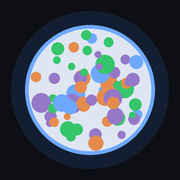
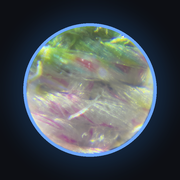
Иконка из фото Фёдора; круг меньше на 25%, картинки выбора крупнее

diff --git a/index.html b/index.html
@@ -9,7 +9,8 @@
 <meta name="apple-mobile-web-app-status-bar-style" content="black-translucent">
 <meta name="apple-mobile-web-app-title" content="Migue">
 <link rel="manifest" href="manifest.webmanifest">
-<link rel="apple-touch-icon" href="icons/icon-192.png">
+<link rel="apple-touch-icon" href="icons/apple-touch-icon.png">
+<link rel="icon" href="icons/icon-192.png" type="image/png">
 <style>
   :root{
     --bg:#0d0f14; --card:#171a22; --line:#272c38;
@@ -43,28 +44,27 @@
   main{
     flex:1; display:flex; flex-direction:column; min-height:0;
     width:min(100%, 620px); margin:0 auto;
-    padding:10px 18px 18px; gap:12px;
+    padding:10px 12px 16px; gap:12px;
   }
   .prompt{text-align:center; font-size:20px; color:var(--text); flex:0 0 auto; margin:0}
   .microwrap{
     flex:1 1 auto; min-height:0; display:flex; align-items:center; justify-content:center;
-    margin:0 -18px;              /* фото во всю ширину экрана, без полей */
     container-type:size;
   }
   .micro{
-    width:min(100%, 100cqh); height:auto; aspect-ratio:1/1; object-fit:cover;
+    width:min(80%, 100cqh); height:auto; aspect-ratio:1/1; object-fit:cover;
     border-radius:50%; border:2px solid var(--line);
     box-shadow:0 0 70px rgba(110,168,254,.2);
     animation:pop .35s ease-out;
   }
-  @supports not (width: 100cqh){ .micro{ width:min(100%, 56vh) } }
+  @supports not (width: 100cqh){ .micro{ width:min(80%, 46vh) } }
   @keyframes pop{from{transform:scale(.9); opacity:0} to{transform:scale(1); opacity:1}}
 
   /* ---------- варианты ---------- */
   .options{
-    flex:0 0 auto; display:grid; gap:4px;
+    flex:0 0 auto; display:grid; gap:6px;
     grid-template-columns:repeat(3, 1fr);
-    width:min(100%, 366px); margin:0 auto;
+    width:min(100%, 420px); margin:0 auto;
   }
   .opt{
     padding:0; border:0; background:none; cursor:pointer; color:var(--text);
@@ -74,7 +74,7 @@
   .opt:active{transform:scale(.94)}
   /* маленькая картинка-превью */
   .opt .pic{
-    position:relative; width:86px; max-width:100%; aspect-ratio:1/1;
+    position:relative; width:100%; max-width:136px; aspect-ratio:1/1;
     border:2px solid var(--line); border-radius:14px; overflow:hidden;
     background:var(--card); transition:border-color .2s;
   }

diff --git a/sw.js b/sw.js
@@ -1,6 +1,6 @@
 // Service worker: приложение работает офлайн и обновляется само.
 // Меняй VERSION при каждом обновлении, чтобы телефон подхватил новое.
-const VERSION = "migue-v2";
+const VERSION = "migue-v3";
 
 self.addEventListener("install", e => self.skipWaiting());
 
